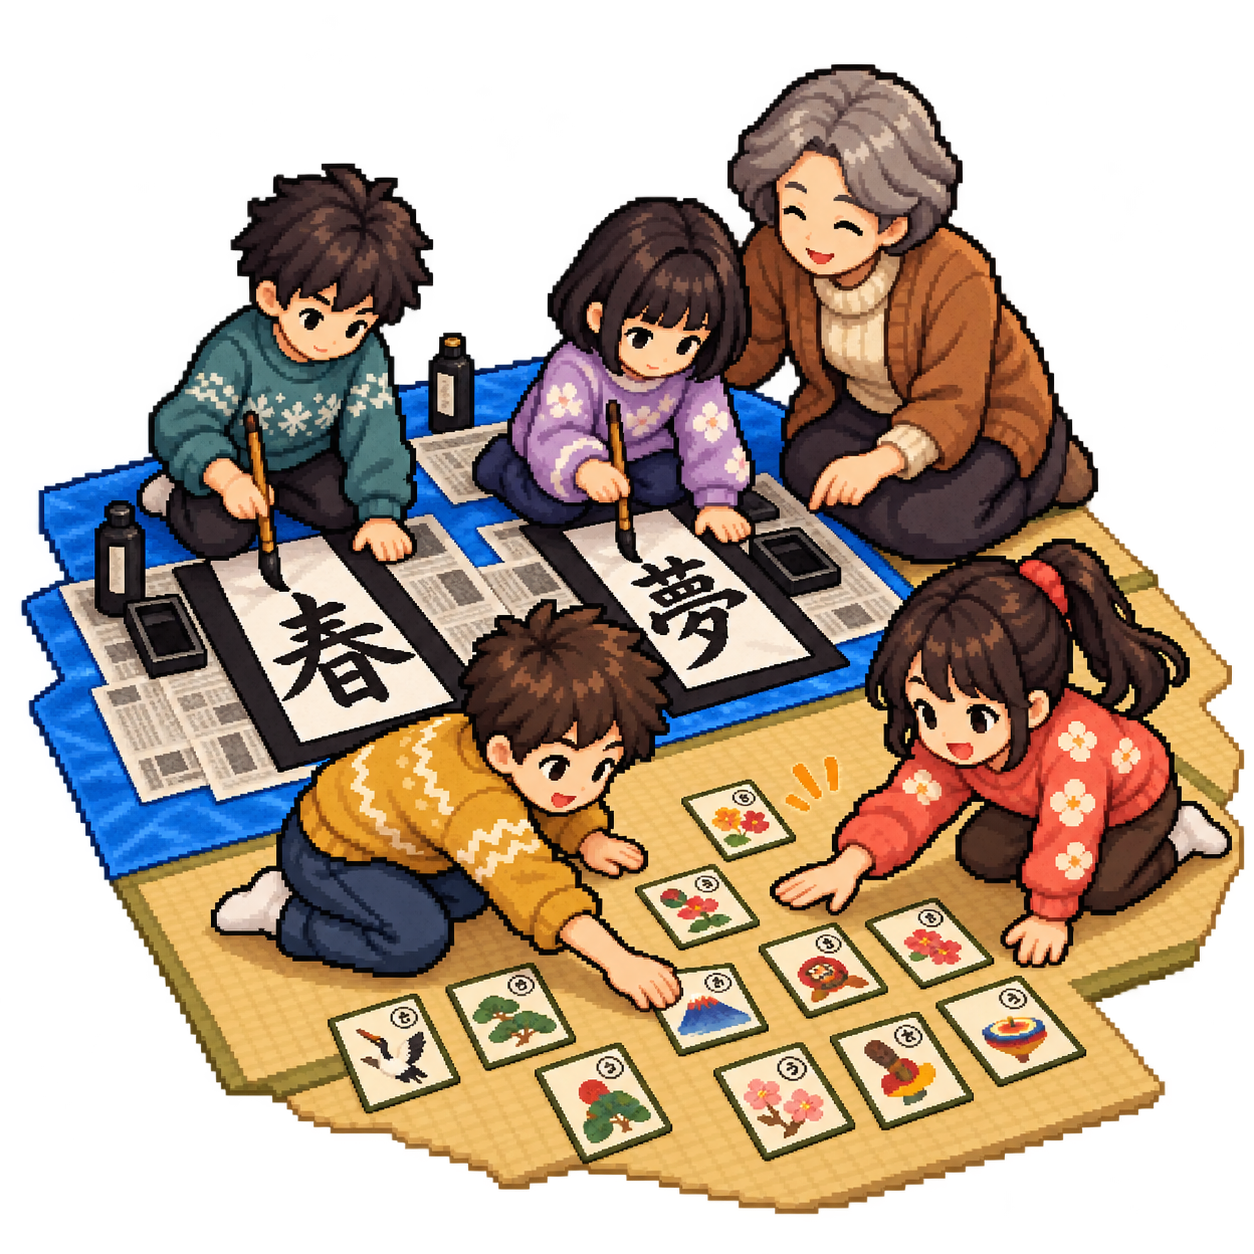
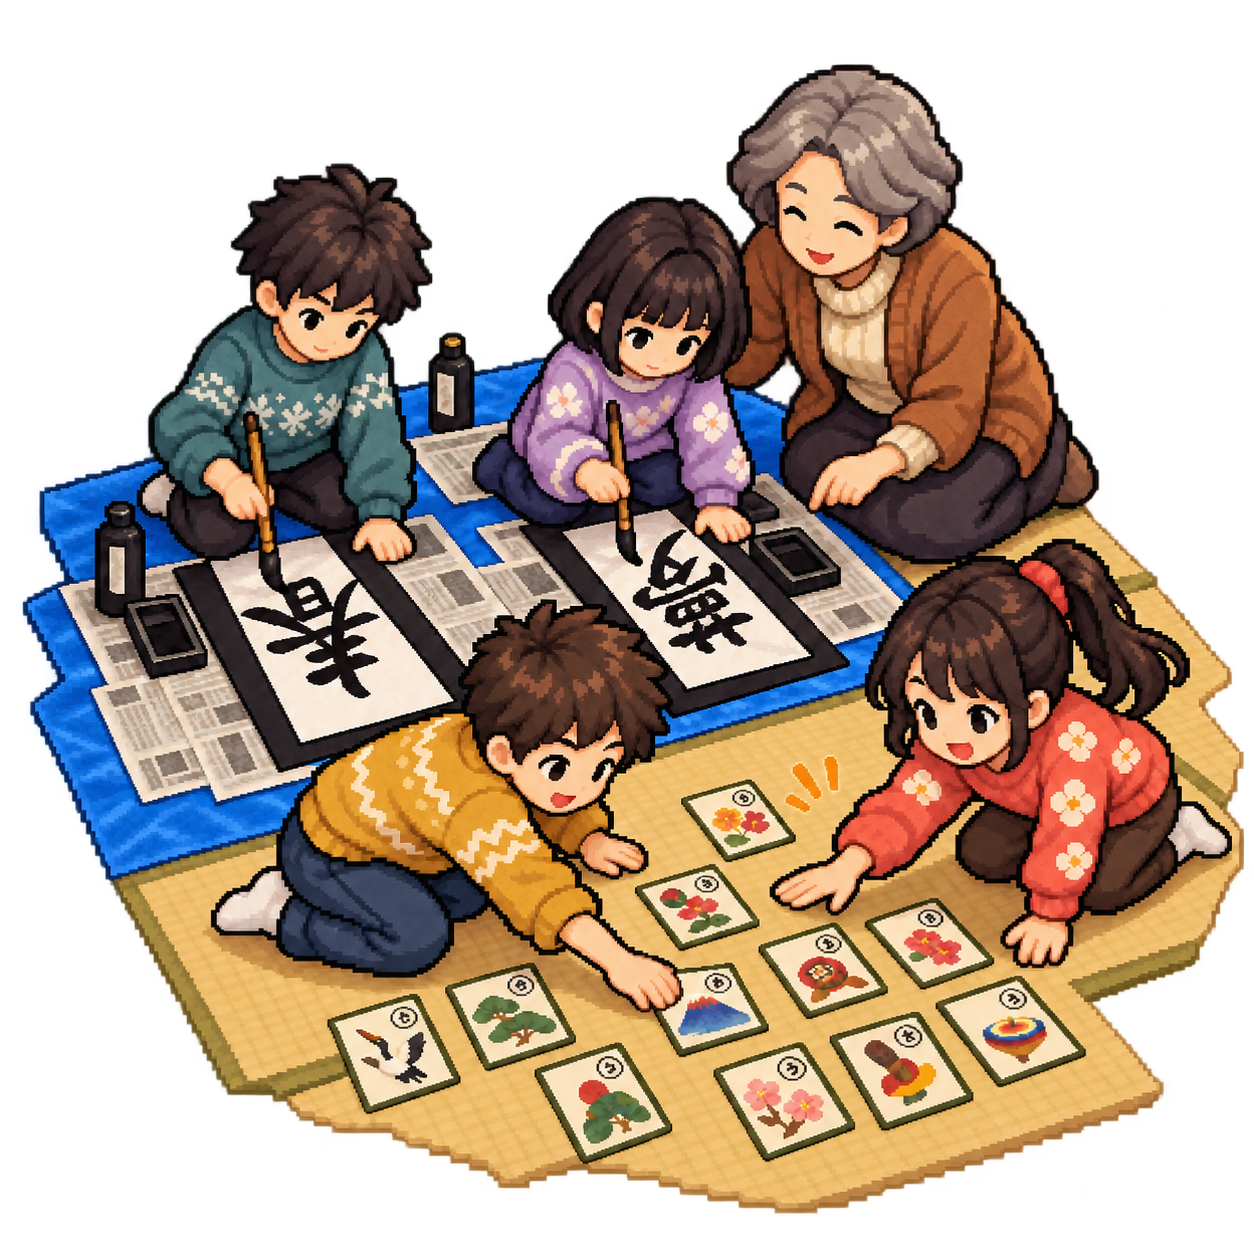
feat: replace the chushin kakizome event picture for ticket 028

diff --git a/src/lib/illust/sprites.ts b/src/lib/illust/sprites.ts
@@ -100,7 +100,7 @@ export const PROP_SIZES: Record<PropId, { width: number; height: number }> = {
   "event-chushin-undokai": { width: 1123, height: 1188 },
   "event-chushin-maruyama-bunkasai": { width: 1245, height: 1132 },
   "event-chushin-mochitsuki": { width: 1219, height: 1073 },
-  "event-chushin-kakizome": { width: 1224, height: 1151 },
+  "event-chushin-kakizome": { width: 1222, height: 1150 },
   "event-kanae-oneday-march": { width: 1208, height: 1138 },
   "event-kanae-ningyo-festa": { width: 1226, height: 1175 },
   "event-kanae-petanque": { width: 1235, height: 961 },

diff --git a/docs/028_illustrated-game-ui.md b/docs/028_illustrated-game-ui.md
@@ -950,7 +950,7 @@
 - **同じ名前の行事**：伊賀良の冬は「冬季スポーツ交流会（ボッチャ）」、夏は「夏季スポーツ交流会（囲碁ボール）」にして、上郷の「冬季スポーツ交流会」と分けた（鼎の「冬季スポーツ大会（ボッチャ）」と同じやり方。名前で引く仕組みはそのまま）
 - **行事の数の上限（要件 F-13 の「1〜2個」と違う）**：夏3件・秋4件を全部ピンに出すため、`seasonView` の行事は上限なしにした。場面の文に差し込むのは `renderScene` の中で最大2つのまま。今2件を超えるのは伊賀良の夏・秋だけ。まさゆきさんが了承し、要件 F-13 も直した
 - **DB**：マイグレーション `20261105120000_igara_winter_sports_name.sql` を当て、3件（夏季スポーツ交流会（囲碁ボール）・いがらミニマラソン大会・書き初め教室、id 29〜31）を `execute_sql` で公開で入れた。行事の行はマイグレーションに入れない（`supabase-migrations.test.ts` が空を前提にしている）
-- **今待っていること**：中心市街地の冬「書初め・お正月遊び」の絵の差しかえ（まさゆきさん）。`assets/illust/chushin/event-chushin-kakizome.png` に上書きで置いてもらう。届いたら絵を見て、`npm run illust`、alt（`assets.ts`）と `assets/illust/README.md` の説明を絵に合わせる
+- **書初めの絵の差しかえ**：中心市街地の冬「書初め・お正月遊び」の `event-chushin-kakizome.png` を、まさゆきさんの新しい絵に上書きして組み込んだ（2026-11-05。alt はそのままで合っている）。スクショは `~/dear-life-screenshots/2026-11-05-event-chushin-kakizome/`。まさゆきさんの確認待ちで、push していない
 - そのあとの順番：カルテの見出し2枚 → 地区くらべ → 地図 → 023 → 025
 - 伊賀良の絵がそろったら、ドット絵の場面（くらしの `ScenePanel` まわり）を消すかをまさゆきさんに聞く（まだ聞いていない）
 
